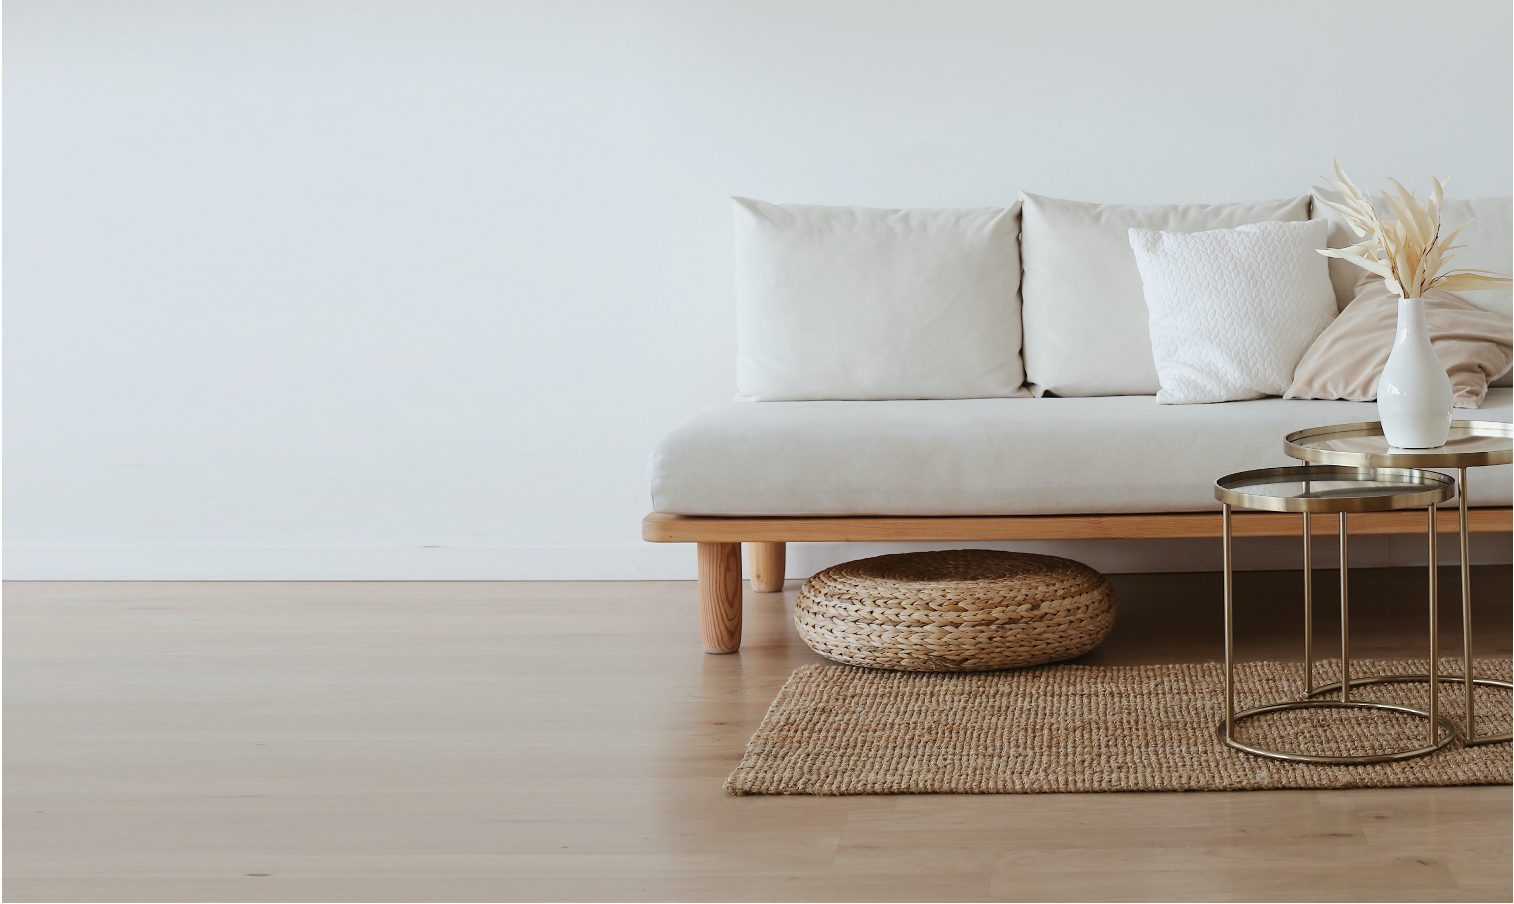
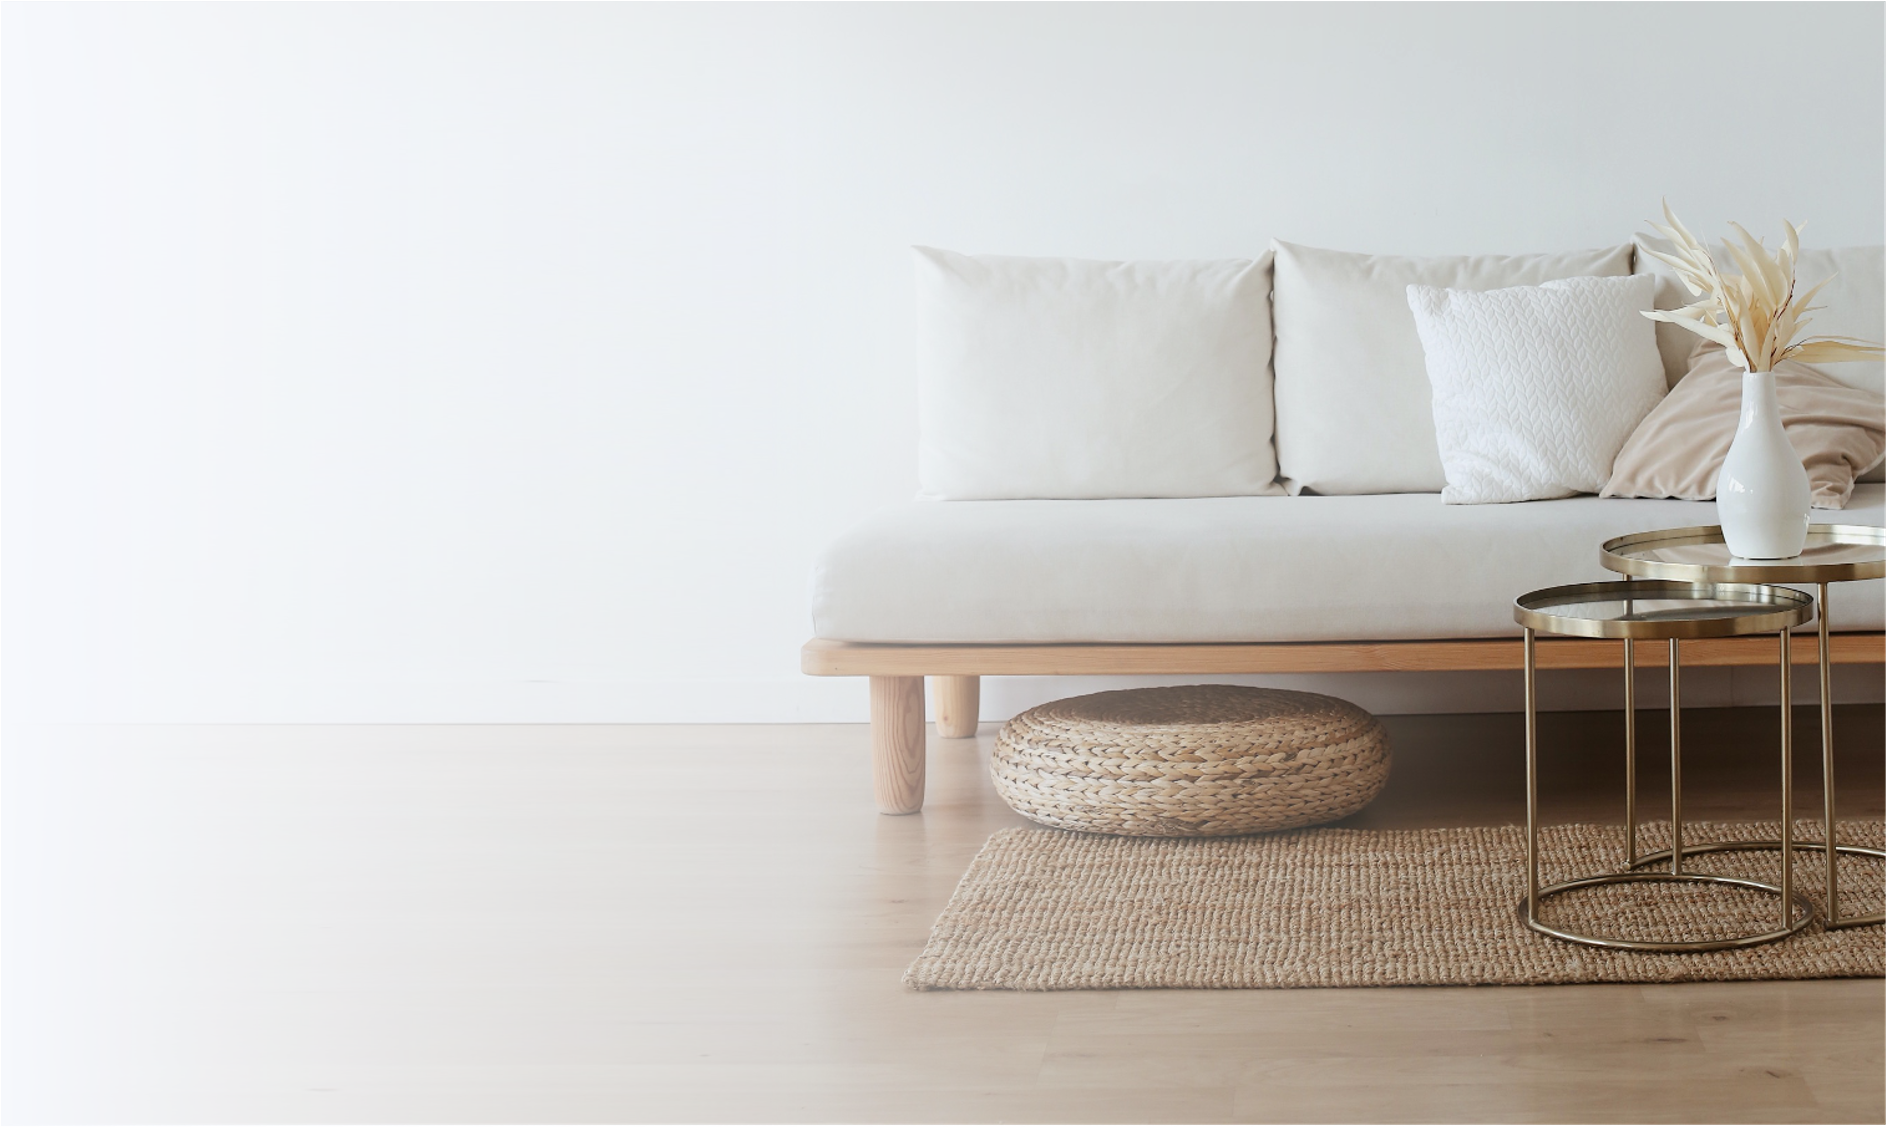
removed extra root dev, changed fonts, hero pic on homepage

diff --git a/public/index.html b/public/index.html
@@ -1,21 +1,19 @@
 <!DOCTYPE html>
 <html lang="en">
-  <head>
-    <meta charset="utf-8" />
-    <link rel="icon" href="%PUBLIC_URL%/favicon.ico" />
-    <meta name="viewport" content="width=device-width, initial-scale=1" />
-    <meta name="theme-color" content="#000000" />
-    <meta
-      name="description"
-      content="Web site created using create-react-app"
-    />
-    <link rel="apple-touch-icon" href="%PUBLIC_URL%/logo192.png" />
-    <!--
+
+<head>
+  <meta charset="utf-8" />
+  <link rel="icon" href="%PUBLIC_URL%/favicon.ico" />
+  <meta name="viewport" content="width=device-width, initial-scale=1" />
+  <meta name="theme-color" content="#000000" />
+  <meta name="description" content="Web site created using create-react-app" />
+  <link rel="apple-touch-icon" href="%PUBLIC_URL%/logo192.png" />
+  <!--
       manifest.json provides metadata used when your web app is installed on a
       user's mobile device or desktop. See https://developers.google.com/web/fundamentals/web-app-manifest/
     -->
-    <link rel="manifest" href="%PUBLIC_URL%/manifest.json" />
-    <!--
+  <link rel="manifest" href="%PUBLIC_URL%/manifest.json" />
+  <!--
       Notice the use of %PUBLIC_URL% in the tags above.
       It will be replaced with the URL of the `public` folder during the build.
       Only files inside the `public` folder can be referenced from the HTML.
@@ -24,39 +22,40 @@
       work correctly both with client-side routing and a non-root public URL.
       Learn how to configure a non-root public URL by running `npm run build`.
     -->
-    <title>Space Savvy</title>
-    <style>
-      html,
-      body {
-        height: 100%;
-        padding: 0;
-        margin: 0;
-      }
-    
-      #root {
-        min-height: 100%;
-        display: flex;
-        flex-direction: column;
-      }
-    
-      .loading-component {
-        display: flex;
-        flex: 1;
-        align-items: center;
-        justify-content: center;
-        font-family: sans-serif;
-        color: #242B33;
-        font-size: 30px;
-      }
-    </style>
-  </head>
-  <body>
-    <noscript>You need to enable JavaScript to run this app.</noscript>
-    <div id="root">
-      <div class="loading-component"> Loading...</div>
-    </div>
-    <div id="root"></div>
-    <!--
+  <title>Space Savvy</title>
+  <style>
+    html,
+    body {
+      height: 100%;
+      padding: 0;
+      margin: 0;
+    }
+
+    #root {
+      min-height: 100%;
+      display: flex;
+      flex-direction: column;
+    }
+
+    .loading-component {
+      display: flex;
+      flex: 1;
+      align-items: center;
+      justify-content: center;
+      font-family: sans-serif;
+      color: #242B33;
+      font-size: 30px;
+    }
+  </style>
+</head>
+
+<body>
+  <noscript>You need to enable JavaScript to run this app.</noscript>
+
+  <div id="root">
+    <div class="loading-component"> Loading...</div>
+  </div>
+  <!--
       This HTML file is a template.
       If you open it directly in the browser, you will see an empty page.
 
@@ -66,5 +65,6 @@
       To begin the development, run `npm start` or `yarn start`.
       To create a production bundle, use `npm run build` or `yarn build`.
     -->
-  </body>
+</body>
+
 </html>

diff --git a/src/App.js b/src/App.js
@@ -7,8 +7,9 @@ import PageNotFound from "./pages/PageNotFound";
 import Header from "./components/Header";
 import Footer from "./components/Footer";
 import { useEffect, useState } from "react";
-import * as database from './database';
+import * as database from "./database";
 import Loading from "./components/Loading";
+import "./styles/index.scss";
 
 // For Shop we have all our products displayed and we can make a filter
 
@@ -17,12 +18,10 @@ import Loading from "./components/Loading";
 // For contact we can have a form there
 
 function App() {
-
   const [products, setProducts] = useState([]);
-  const [ isLoading, setIsLoading ] = useState(true);
+  const [isLoading, setIsLoading] = useState(true);
 
   useEffect(() => {
-
     (async () => {
       const data = await database.load();
       setProducts(data);
@@ -30,23 +29,24 @@ function App() {
     })();
   }, []);
 
-  if(isLoading){
-    return <Loading/>
+  if (isLoading) {
+    return <Loading />;
   }
 
   return (
     <div className="App">
       <Header />
       <Routes>
-        <Route path="/" element={<HomePage/>} />
-        <Route path="/products" element={<ProductsPage 
-          products={products}
-        />} />
+        <Route path="/" element={<HomePage />} />
+        <Route
+          path="/products"
+          element={<ProductsPage products={products} />}
+        />
         <Route path="/About" element={<AboutPage />} />
         <Route path="/contact" element={<ContactPage />} />
         <Route path="*" element={<PageNotFound />} />
       </Routes>
-      <Footer/>
+      <Footer />
     </div>
   );
 }

diff --git a/src/components/Header/styles.scss b/src/components/Header/styles.scss
@@ -1,36 +1,42 @@
 @import "../../styles/variables.scss";
 
-div.header {
+div.header-container {
   display: flex;
-  justify-content: space-around;
-  div.brand-name {
+  flex-direction: column;
+  div.header {
+    width: 80%;
+    align-self: center;
     display: flex;
-    align-items: center;
-    font-family: $title-font;
-    font-size: 3vw;
-  }
-  div.nav-bar {
-    display: flex;
-    justify-content: center;
-
-    ul {
+    justify-content: space-between;
+    div.brand-name {
       display: flex;
-      column-gap: 2rem;
+      align-items: center;
+      font-family: $title-font;
+      font-size: 3vw;
+    }
+    div.nav-bar {
+      display: flex;
+      justify-content: center;
 
-      li {
-        list-style: none;
+      ul {
+        display: flex;
+        column-gap: 2rem;
 
-        a {
-          text-decoration: none;
-          color: $text-color;
-          width: 100%;
-          height: 100%;
-          padding: 0.5rem;
-          border-radius: 5px;
+        li {
+          list-style: none;
 
-          &.active {
-            background-color: $primary-color;
-            color: white;
+          a {
+            text-decoration: none;
+            color: $text-color;
+            width: 100%;
+            height: 100%;
+            padding: 0.5rem;
+            border-radius: 5px;
+
+            &.active {
+              background-color: $primary-color;
+              color: white;
+            }
           }
         }
       }

diff --git a/src/components/Header/index.js b/src/components/Header/index.js
@@ -3,23 +3,25 @@ import "./styles.scss";
 import { NavLink } from "react-router-dom";
 export default function Header() {
   return (
-    <div className="header">
-      <div className="brand-name">SpaceSavvy</div>
-      <div className="nav-bar">
-        <ul>
-          <li>
-            <NavLink to="/">Home</NavLink>
-          </li>
-          <li>
-            <NavLink to="/products">Products</NavLink>
-          </li>
-          <li>
-            <NavLink to="/about">About</NavLink>
-          </li>
-          <li>
-            <NavLink to="/contact">Contact</NavLink>
-          </li>
-        </ul>
+    <div className="header-container">
+      <div className="header">
+        <div className="brand-name">SpaceSavvy</div>
+        <div className="nav-bar">
+          <ul>
+            <li>
+              <NavLink to="/">Home</NavLink>
+            </li>
+            <li>
+              <NavLink to="/products">Products</NavLink>
+            </li>
+            <li>
+              <NavLink to="/about">About</NavLink>
+            </li>
+            <li>
+              <NavLink to="/contact">Contact</NavLink>
+            </li>
+          </ul>
+        </div>
       </div>
     </div>
   );

diff --git a/src/pages/ProductsPage/index.js b/src/pages/ProductsPage/index.js
@@ -1,14 +1,18 @@
-import './styles.scss';
+import "./styles.scss";
 
 import ContentCard from "../../components/ContentCard";
 import Products from "../../components/Products";
 import "./styles.scss";
 export default function ProductsPage({ products }) {
-  return <>
-    <ContentCard title="Products" className="feature1">
-      <Products
-          products={products}
-        />
-    </ContentCard>
-  </>;
+  return (
+    <div className="product-page">
+      <div className="banner">
+        Call us today or visit our store to add more beautiful pieces to your
+        home!
+      </div>
+      <ContentCard title="Products" className="feature1">
+        <Products products={products} />
+      </ContentCard>
+    </div>
+  );
 }

diff --git a/src/styles/variables.scss b/src/styles/variables.scss
@@ -1,5 +1,5 @@
 $title-font: "Abril Fatface", cursive;
-$body-font: "Barlow Condensed", sans-serif;
+$body-font: "Quicksand", sans-serif;
 
 $primary-color: #3e6633;
 $secondary-color: #bb7302;
@@ -20,18 +20,18 @@ $danger-color: #cd2424;
 
 @mixin breakpoint-small {
   @include breakpoint(640px) {
-      @content;
+    @content;
   }
 }
 
 @mixin breakpoint-medium {
   @include breakpoint(1007px) {
-      @content;
+    @content;
   }
 }
 
 @mixin breakpoint-extra-large {
   @include breakpoint(1500px) {
-      @content;
+    @content;
   }
 }

diff --git a/src/pages/ProductsPage/styles.scss b/src/pages/ProductsPage/styles.scss
@@ -1,8 +1,23 @@
 @import "../../styles/variables.scss";
 
-.productslist{
+div.product-page {
+  display: flex;
+  flex-direction: column;
+  .productslist {
     max-width: 80%;
     display: inline-flex;
     flex-wrap: wrap;
     background-color: rgb(255, 219, 165);
+  }
+
+  div.banner {
+    display: flex;
+    flex-direction: column;
+    width: 100%;
+    text-align: center;
+    justify-content: center;
+    background-color: $light-gray;
+    padding: 1vw 0;
+    // color: white;
+  }
 }

diff --git a/src/styles/index.scss b/src/styles/index.scss
@@ -1,4 +1,7 @@
-@import url("https://fonts.googleapis.com/css2?family=Abril+Fatface&family=Barlow+Condensed:wght@100;400;700&display=swap");
+//@import url("https://fonts.googleapis.com/css2?family=Abril+Fatface&family=Barlow+Condensed:wght@100;400;700&display=swap");
+
+@import url("https://fonts.googleapis.com/css2?family=Abril+Fatface&family=Barlow+Condensed:wght@100;400;700&family=Quicksand:wght@400;700&display=swap");
+
 @import "./variables.scss";
 
 body {
